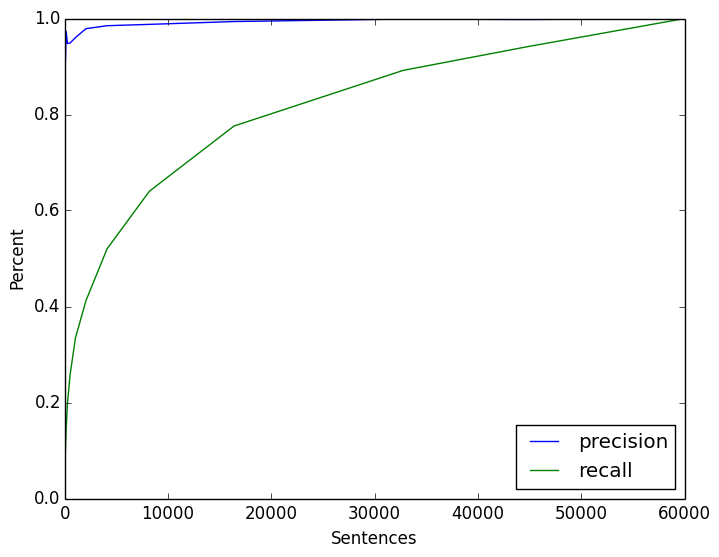
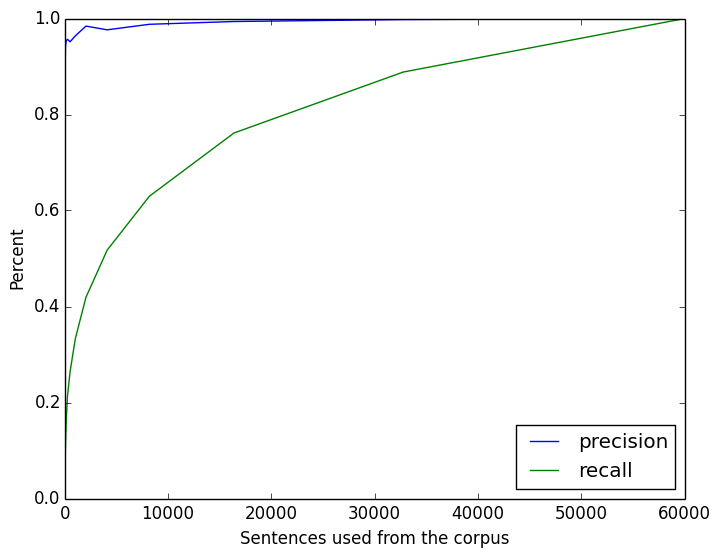
updated the precision_recall curve.

diff --git a/doc/LinksToDAG.tex b/doc/LinksToDAG.tex
@@ -110,8 +110,6 @@ Our ILP objective is to minimize the number of label/direction variables set to 
 
 \TODO{cite model minimization papers}
 
-\subsection{Slack}
-We introduced slack on the directional dependency variables such that the link types were allowed to deviate from the majority one percent of the time before the ILP would assign both directional dependency variables to true. This addressed noise in the link parser's label assignments, while still allowing for both directions to be assigned if needed.
 \begin{figure}
   \small
   \begin{align}
@@ -130,17 +128,19 @@ We introduced slack on the directional dependency variables such that the link t
 
 
 
-\subsection{Stability of Results}
-We tested to see how the solution changed over increasing numbers of processed sentences. 
-Taking the solution to the largest run as the answer key, we measured how much the previous runs deviated from it. We measured the precision of whether the assignments in the smaller runs matched the assignments of the largest run, and we measured the recall of whether the assignments in the largest run could be found in the smaller runs. 
+\subsection{Slack}
+We introduced slack on the directional dependency variables such that the link types were allowed to deviate from the majority one percent of the time before the ILP would assign both directional dependency variables to true. This addressed noise in the link parser's label assignments, while still allowing for both directions to be assigned if needed.
 
+
+\subsection{Stability of Results}
+We measured how the solution changed over increasing numbers of processed sentences. 
+Taking the solution to the largest run as the answer key, we measured how much the previous runs deviated from it. We measured the precision of whether the assignments in the smaller runs matched the assignments of the largest run and we measured the recall of whether the assignments in the largest run could be found in the smaller runs. 
 \begin{figure}[ht!]
   \small
   \includegraphics[width=\linewidth, keepaspectratio=true]{figure/precision_recall.png}
-  \caption{\small Precision and recall of increasing runs of English sentences}
+  \caption{\small Precision/recall of results of English sentences}
 \end{figure}
-
-In the end, the precision values converged to 100\% while the recall values continued to grow throughout our data. This indicates that the solutions of the previous runs were consistent with the largest run. However as the data grew, we would continue to encounter novel link types.
+We found that the precision values converged to 100\% while the recall values continued to grow throughout our data without converging. This indicates that the solutions of the previous runs were consistent with the largest run. However as the data grew, we would continue to encounter novel link types.
 
 
 
